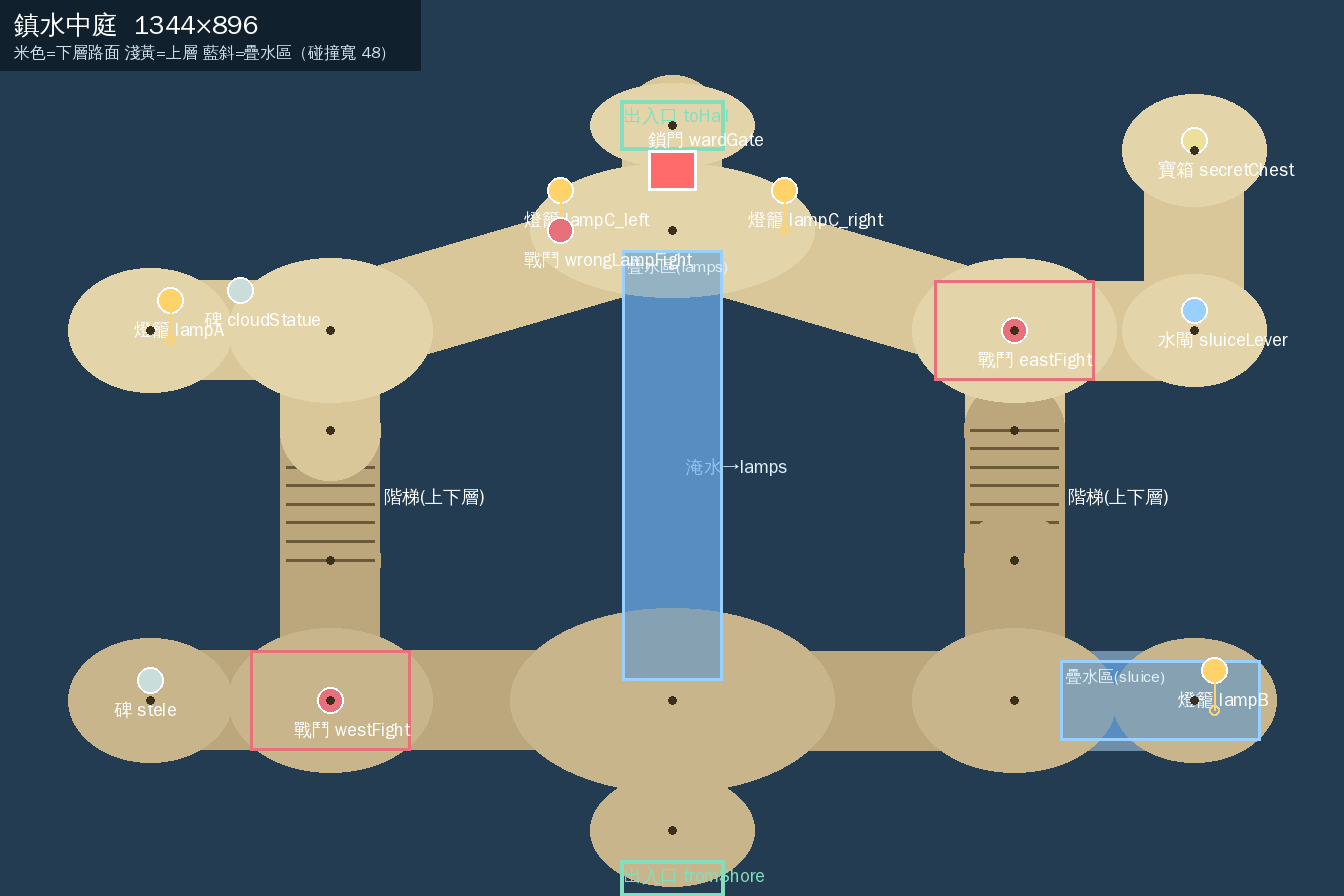
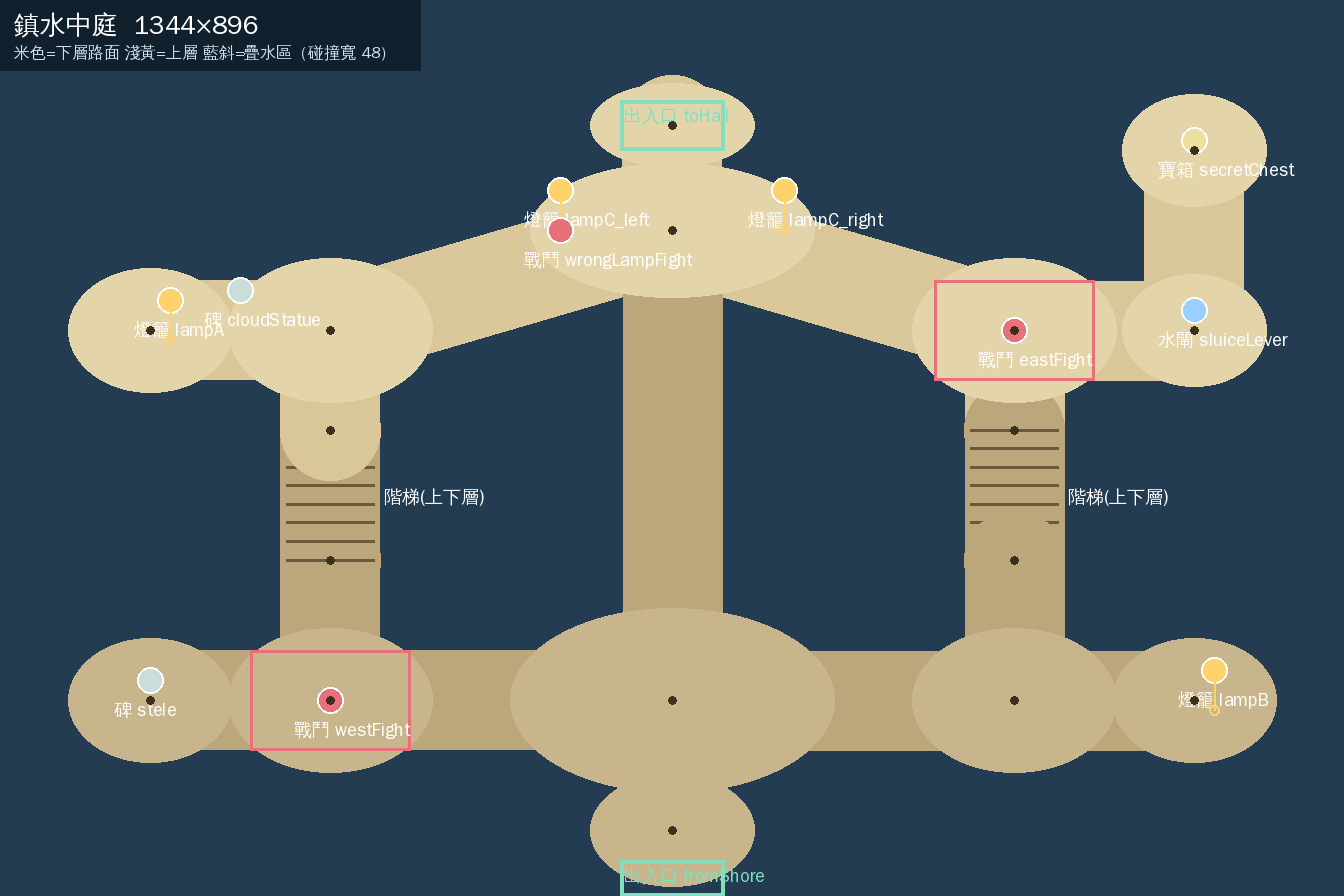
v53 階段二（進行中）：河神廟機關與戰鬥（撐篙、狐火、水閘、點燈選擇、疊水、固定戰鬥、河伯水影）
Claude-Session: https://claude.ai/code/session_012hxEHnLvCbmtScRwYicbh3

Changed region(s): [[0.4375, 0.2812, 0.5938, 0.7812], [0.7812, 0.7188, 0.9375, 0.8438], [0.4688, 0.1562, 0.5312, 0.2188]]

diff --git a/src/temple_layout.js b/src/temple_layout.js
@@ -1,3 +1,3 @@
 'use strict';
 // Generated by tools/build-temple-layout.py from docs/maps/temple-v52/layout-*.json. 不要手改。
-const TEMPLE_LAYOUTS={"shore":{"id":"temple_shore","title":"廟前淺灘","world":{"width":1344,"height":896},"pathWidth":48,"nodes":{"arrival":[90,780],"split":[300,780],"lowA":[560,780],"lowB":[800,780],"lowC":[1000,700],"merge":[1100,480],"up1":[300,540],"pierStart":[300,300],"gapW":[470,300],"gapE":[570,300],"pierMid":[700,300],"pierEnd":[900,300],"pierExit":[1100,300],"gate":[1200,480]},"edges":[{"a":"arrival","b":"split","kind":"path","open":null},{"a":"split","b":"lowA","kind":"path","open":null},{"a":"lowA","b":"lowB","kind":"path","open":null},{"a":"lowB","b":"lowC","kind":"path","open":null},{"a":"lowC","b":"merge","kind":"path","open":null},{"a":"split","b":"up1","kind":"path","open":null},{"a":"up1","b":"pierStart","kind":"path","open":null},{"a":"pierStart","b":"gapW","kind":"path","open":null},{"a":"gapW","b":"gapE","kind":"gap","open":"pole"},{"a":"gapE","b":"pierMid","kind":"path","open":null},{"a":"pierMid","b":"pierEnd","kind":"path","open":null},{"a":"pierEnd","b":"pierExit","kind":"path","open":null},{"a":"pierExit","b":"merge","kind":"path","open":null},{"a":"merge","b":"gate","kind":"path","open":null}],"clearings":[{"id":"arrival","x":90,"y":780,"rx":60,"ry":44},{"id":"split","x":300,"y":780,"rx":70,"ry":50},{"id":"lowB","x":800,"y":780,"rx":110,"ry":70},{"id":"pierStart","x":300,"y":300,"rx":70,"ry":50},{"id":"pierMid","x":700,"y":300,"rx":70,"ry":50},{"id":"pierEnd","x":900,"y":300,"rx":70,"ry":50},{"id":"merge","x":1100,"y":480,"rx":80,"ry":60},{"id":"gate","x":1200,"y":480,"rx":60,"ry":50}],"overlays":[],"zones":{"fromReeds":[24,736,90,90],"toCourt":[1230,430,80,100]},"features":{"poleGap":{"id":"poleGap","kind":"pole","x":520,"y":300,"rect":[470,276,100,48],"note":"棧橋缺口：青舟用竹篙撐出踏板（互動後缺口變成可走，flags.templeShorePole）"},"incenseStele":{"id":"incenseStele","kind":"lore","x":700,"y":280,"note":"斷了香火的舊香碑（環境敘事，可選）"},"shoreChest":{"id":"shoreChest","kind":"chest","x":900,"y":280,"key":"temple:shore","note":"魚乾×2，走棧橋的獎勵"},"shoreGuard":{"id":"shoreGuard","kind":"fight","x":800,"y":780,"trigger":[690,730,220,100],"note":"走淺灘會遇到的固定戰鬥（走棧橋就繞過）"}},"encounters":[{"id":"shoreGuard","enemies":["小水妖","小水妖","蘆葦精"],"flag":"templeShoreFight","checkpoint":[300,780]}],"upper":[]},"court":{"id":"temple_court","title":"鎮水中庭","world":{"width":1344,"height":896},"pathWidth":48,"nodes":{"arrival":[672,830],"lowC":[672,700],"lowW":[330,700],"stele":[150,700],"lowE":[1014,700],"lampBNook":[1194,700],"stairWb":[330,560],"stairWt":[330,430],"upW":[330,330],"lampANook":[150,330],"upN":[672,230],"upE":[1014,330],"stairEt":[1014,430],"stairEb":[1014,560],"sluice":[1194,330],"secretNE":[1194,150],"hallDoor":[672,125]},"edges":[{"a":"arrival","b":"lowC","kind":"path","open":null},{"a":"lowC","b":"lowW","kind":"path","open":null},{"a":"lowW","b":"stele","kind":"path","open":null},{"a":"lowC","b":"lowE","kind":"path","open":null},{"a":"lowE","b":"lampBNook","kind":"flooded","open":"sluice"},{"a":"lowW","b":"stairWb","kind":"path","open":null},{"a":"stairWb","b":"stairWt","kind":"stairs","open":null},{"a":"stairWt","b":"upW","kind":"path","open":null},{"a":"upW","b":"lampANook","kind":"path","open":null},{"a":"upW","b":"upN","kind":"path","open":null},{"a":"upN","b":"upE","kind":"path","open":null},{"a":"upE","b":"stairEt","kind":"path","open":null},{"a":"stairEt","b":"stairEb","kind":"stairs","open":null},{"a":"stairEb","b":"lowE","kind":"path","open":null},{"a":"upE","b":"sluice","kind":"path","open":null},{"a":"sluice","b":"secretNE","kind":"path","open":null},{"a":"upN","b":"lowC","kind":"flooded","open":"lamps"},{"a":"upN","b":"hallDoor","kind":"path","open":null}],"clearings":[{"id":"arrival","x":672,"y":830,"rx":70,"ry":44},{"id":"lowPlaza","x":672,"y":700,"rx":150,"ry":80},{"id":"lowW","x":330,"y":700,"rx":90,"ry":60},{"id":"stele","x":150,"y":700,"rx":70,"ry":50},{"id":"lowE","x":1014,"y":700,"rx":90,"ry":60},{"id":"lampBNook","x":1194,"y":700,"rx":70,"ry":50},{"id":"upW","x":330,"y":330,"rx":90,"ry":60},{"id":"lampANook","x":150,"y":330,"rx":70,"ry":50},{"id":"upN","x":672,"y":230,"rx":130,"ry":55},{"id":"upE","x":1014,"y":330,"rx":90,"ry":60},{"id":"sluice","x":1194,"y":330,"rx":60,"ry":44},{"id":"secretNE","x":1194,"y":150,"rx":60,"ry":44},{"id":"hallDoor","x":672,"y":125,"rx":70,"ry":30}],"overlays":[{"id":"waterB","rect":[1060,660,200,80],"open":"sluice","note":"淹水區：底圖畫成乾石路，遊戲疊水；扳動水閘後水退"},{"id":"waterChannel","rect":[622,250,100,430],"open":"lamps","note":"中央水道：底圖畫成乾石路，遊戲疊水；三燈全亮後水退，露出回到入口的捷徑"}],"zones":{"fromShore":[620,860,104,36],"toHall":[620,100,104,50]},"features":{"stele":{"id":"stele","kind":"lore","x":150,"y":680,"note":"碑文：讀完才能點燈（flags.steleSeen）；寫出「鎮水之燈在日出之側」，答案是東邊那盞（燈 C 右）"},"lampA":{"id":"lampA","kind":"lantern","x":170,"y":300,"stand":[170,340],"note":"燈 A：被銀雲符封住，白苓用狐火燒開才能點亮"},"lampB":{"id":"lampB","kind":"lantern","x":1214,"y":670,"stand":[1214,710],"note":"燈 B：在淹水區，先扳水閘排水才碰得到"},"lampC_left":{"id":"lampC_left","kind":"lantern","x":560,"y":190,"stand":[560,230],"note":"燈 C 左（西）：錯誤的那盞，點了會引來水妖戰"},"lampC_right":{"id":"lampC_right","kind":"lantern","x":784,"y":190,"stand":[784,230],"note":"燈 C 右（東）：正確的那盞"},"sluiceLever":{"id":"sluiceLever","kind":"lever","x":1194,"y":310,"note":"水閘拉桿（flags.templeSluice），青舟用竹篙扳動"},"cloudStatue":{"id":"cloudStatue","kind":"lore","x":240,"y":290,"note":"石像殘骸上的九霄雲紋（呼應第二章伏筆）"},"secretChest":{"id":"secretChest","kind":"chest","x":1194,"y":140,"key":"temple:court","note":"隱藏角落寶箱，清心草×2"},"wardGate":{"id":"wardGate","kind":"gate","rect":[648,150,48,40],"note":"鎮水門；三盞燈全亮才開。門在上層北側往水府後殿的短路上"},"westFight":{"id":"westFight","kind":"fight","x":330,"y":700,"trigger":[250,650,160,100]},"eastFight":{"id":"eastFight","kind":"fight","x":1014,"y":330,"trigger":[934,280,160,100]},"wrongLampFight":{"id":"wrongLampFight","kind":"fight","x":560,"y":230,"note":"點錯燈 C：2 隻小水妖，可重試"}},"encounters":[{"id":"westFight","enemies":["蘆葦精","蘆葦精"],"flag":"templeFightW","checkpoint":[672,830]},{"id":"eastFight","enemies":["小水妖","小水妖","小水妖"],"flag":"templeFightE","checkpoint":[672,830]},{"id":"wrongLampFight","enemies":["小水妖","小水妖"],"flag":null,"checkpoint":[672,830]}],"upper":["stairWt","upW","lampANook","upN","upE","stairEt","sluice","secretNE","hallDoor"]},"hall":{"id":"temple_hall","title":"水府後殿","world":{"width":1344,"height":896},"pathWidth":48,"nodes":{"arrival":[672,830],"hall1":[672,700],"westS":[340,700],"westN":[340,300],"eastS":[1004,700],"eastN":[1004,300],"northMid":[672,300],"shrine":[672,480],"westAlcove":[160,500],"eastAlcove":[1184,500],"boss":[672,150]},"edges":[{"a":"arrival","b":"hall1","kind":"path","open":null},{"a":"hall1","b":"westS","kind":"path","open":null},{"a":"westS","b":"westN","kind":"path","open":null},{"a":"westN","b":"northMid","kind":"path","open":null},{"a":"northMid","b":"eastN","kind":"path","open":null},{"a":"eastN","b":"eastS","kind":"path","open":null},{"a":"eastS","b":"hall1","kind":"path","open":null},{"a":"hall1","b":"shrine","kind":"path","open":null},{"a":"westN","b":"westAlcove","kind":"path","open":null},{"a":"eastN","b":"eastAlcove","kind":"path","open":null},{"a":"northMid","b":"boss","kind":"barrier","open":"seal"}],"clearings":[{"id":"arrival","x":672,"y":830,"rx":70,"ry":44},{"id":"hall1","x":672,"y":700,"rx":100,"ry":60},{"id":"shrine","x":672,"y":480,"rx":120,"ry":70},{"id":"northMid","x":672,"y":300,"rx":100,"ry":55},{"id":"westAlcove","x":160,"y":500,"rx":80,"ry":50},{"id":"eastAlcove","x":1184,"y":500,"rx":80,"ry":50},{"id":"boss","x":672,"y":150,"rx":150,"ry":80}],"overlays":[],"zones":{"fromCourt":[620,860,104,36]},"features":{"plaque":{"id":"plaque","kind":"lore","x":160,"y":480,"note":"還願牌（原有內容，flags.plaque）"},"hallChest":{"id":"hallChest","kind":"chest","x":1184,"y":480,"key":"temple:hall","note":"清心草×2，繞環形走廊才拿得到"},"cloudMark":{"id":"cloudMark","kind":"lore","x":600,"y":440,"note":"神龕旁銀雲紋，和控妖符同一人手筆（第二章伏筆）"},"shrineSeal":{"id":"shrineSeal","kind":"seal","x":672,"y":460,"zone":[622,430,100,80],"note":"神龕：觸發墨刑事件＋河伯水影中頭目戰，勝利後削弱封印（flags.templeSeal）"},"sealBarrier":{"id":"sealBarrier","kind":"gate","rect":[648,262,48,28],"note":"封印屏障：封印削弱前擋住通往河伯的路"},"hebo":{"id":"hebo","kind":"boss","x":672,"y":120,"note":"河伯，封印削弱後交談開戰"}},"encounters":[{"id":"shrineShadow","enemies":["河伯水影"],"flag":"templeHallShadow","checkpoint":[672,830]}],"upper":[]}};
+const TEMPLE_LAYOUTS={"shore":{"id":"temple_shore","title":"廟前淺灘","world":{"width":1344,"height":896},"pathWidth":48,"nodes":{"arrival":[90,780],"split":[300,780],"lowA":[560,780],"lowB":[800,780],"lowC":[1000,700],"merge":[1100,480],"up1":[300,540],"pierStart":[300,300],"gapW":[470,300],"gapE":[570,300],"pierMid":[700,300],"pierEnd":[900,300],"pierExit":[1100,300],"gate":[1200,480]},"edges":[{"a":"arrival","b":"split","kind":"path","open":null},{"a":"split","b":"lowA","kind":"path","open":null},{"a":"lowA","b":"lowB","kind":"path","open":null},{"a":"lowB","b":"lowC","kind":"path","open":null},{"a":"lowC","b":"merge","kind":"path","open":null},{"a":"split","b":"up1","kind":"path","open":null},{"a":"up1","b":"pierStart","kind":"path","open":null},{"a":"pierStart","b":"gapW","kind":"path","open":null},{"a":"gapW","b":"gapE","kind":"gap","open":"pole"},{"a":"gapE","b":"pierMid","kind":"path","open":null},{"a":"pierMid","b":"pierEnd","kind":"path","open":null},{"a":"pierEnd","b":"pierExit","kind":"path","open":null},{"a":"pierExit","b":"merge","kind":"path","open":null},{"a":"merge","b":"gate","kind":"path","open":null}],"clearings":[{"id":"arrival","x":90,"y":780,"rx":60,"ry":44},{"id":"split","x":300,"y":780,"rx":70,"ry":50},{"id":"lowB","x":800,"y":780,"rx":110,"ry":70},{"id":"pierStart","x":300,"y":300,"rx":70,"ry":50},{"id":"pierMid","x":700,"y":300,"rx":70,"ry":50},{"id":"pierEnd","x":900,"y":300,"rx":70,"ry":50},{"id":"merge","x":1100,"y":480,"rx":80,"ry":60},{"id":"gate","x":1200,"y":480,"rx":60,"ry":50}],"overlays":[],"zones":{"fromReeds":[24,736,90,90],"toCourt":[1230,430,80,100]},"features":{"poleGap":{"id":"poleGap","kind":"pole","x":520,"y":300,"rect":[470,276,100,48],"note":"棧橋缺口：青舟用竹篙撐出踏板（互動後缺口變成可走，flags.templeShorePole）"},"incenseStele":{"id":"incenseStele","kind":"lore","x":700,"y":280,"note":"斷了香火的舊香碑（環境敘事，可選）"},"shoreChest":{"id":"shoreChest","kind":"chest","x":900,"y":280,"key":"temple:shore","note":"魚乾×2，走棧橋的獎勵"},"shoreGuard":{"id":"shoreGuard","kind":"fight","x":800,"y":780,"trigger":[690,730,220,100],"note":"走淺灘會遇到的固定戰鬥（走棧橋就繞過）"}},"encounters":[{"id":"shoreGuard","enemies":["小水妖","小水妖","蘆葦精"],"flag":"templeShoreFight","checkpoint":[300,780],"bg":"bg_river"}],"upper":[]},"court":{"id":"temple_court","title":"鎮水中庭","world":{"width":1344,"height":896},"pathWidth":48,"nodes":{"arrival":[672,830],"lowC":[672,700],"lowW":[330,700],"stele":[150,700],"lowE":[1014,700],"lampBNook":[1194,700],"stairWb":[330,560],"stairWt":[330,430],"upW":[330,330],"lampANook":[150,330],"upN":[672,230],"upE":[1014,330],"stairEt":[1014,430],"stairEb":[1014,560],"sluice":[1194,330],"secretNE":[1194,150],"hallDoor":[672,125]},"edges":[{"a":"arrival","b":"lowC","kind":"path","open":null},{"a":"lowC","b":"lowW","kind":"path","open":null},{"a":"lowW","b":"stele","kind":"path","open":null},{"a":"lowC","b":"lowE","kind":"path","open":null},{"a":"lowE","b":"lampBNook","kind":"flooded","open":"sluice"},{"a":"lowW","b":"stairWb","kind":"path","open":null},{"a":"stairWb","b":"stairWt","kind":"stairs","open":null},{"a":"stairWt","b":"upW","kind":"path","open":null},{"a":"upW","b":"lampANook","kind":"path","open":null},{"a":"upW","b":"upN","kind":"path","open":null},{"a":"upN","b":"upE","kind":"path","open":null},{"a":"upE","b":"stairEt","kind":"path","open":null},{"a":"stairEt","b":"stairEb","kind":"stairs","open":null},{"a":"stairEb","b":"lowE","kind":"path","open":null},{"a":"upE","b":"sluice","kind":"path","open":null},{"a":"sluice","b":"secretNE","kind":"path","open":null},{"a":"upN","b":"lowC","kind":"flooded","open":"lamps"},{"a":"upN","b":"hallDoor","kind":"path","open":null}],"clearings":[{"id":"arrival","x":672,"y":830,"rx":70,"ry":44},{"id":"lowPlaza","x":672,"y":700,"rx":150,"ry":80},{"id":"lowW","x":330,"y":700,"rx":90,"ry":60},{"id":"stele","x":150,"y":700,"rx":70,"ry":50},{"id":"lowE","x":1014,"y":700,"rx":90,"ry":60},{"id":"lampBNook","x":1194,"y":700,"rx":70,"ry":50},{"id":"upW","x":330,"y":330,"rx":90,"ry":60},{"id":"lampANook","x":150,"y":330,"rx":70,"ry":50},{"id":"upN","x":672,"y":230,"rx":130,"ry":55},{"id":"upE","x":1014,"y":330,"rx":90,"ry":60},{"id":"sluice","x":1194,"y":330,"rx":60,"ry":44},{"id":"secretNE","x":1194,"y":150,"rx":60,"ry":44},{"id":"hallDoor","x":672,"y":125,"rx":70,"ry":30}],"overlays":[{"id":"waterB","rect":[1060,660,200,80],"open":"sluice","note":"淹水區：底圖畫成乾石路，遊戲疊水；扳動水閘後水退"},{"id":"waterChannel","rect":[622,250,100,430],"open":"lamps","note":"中央水道：底圖畫成乾石路，遊戲疊水；三燈全亮後水退，露出回到入口的捷徑"}],"zones":{"fromShore":[620,860,104,36],"toHall":[620,100,104,50]},"features":{"stele":{"id":"stele","kind":"lore","x":150,"y":680,"note":"碑文：讀完才能點燈（flags.steleSeen）；寫出「鎮水之燈在日出之側」，答案是東邊那盞（燈 C 右）"},"lampA":{"id":"lampA","kind":"lantern","x":170,"y":300,"stand":[170,340],"note":"燈 A：被銀雲符封住，白苓用狐火燒開才能點亮"},"lampB":{"id":"lampB","kind":"lantern","x":1214,"y":670,"stand":[1214,710],"note":"燈 B：在淹水區，先扳水閘排水才碰得到"},"lampC_left":{"id":"lampC_left","kind":"lantern","x":560,"y":190,"stand":[560,230],"note":"燈 C 左（西）：錯誤的那盞，點了會引來水妖戰"},"lampC_right":{"id":"lampC_right","kind":"lantern","x":784,"y":190,"stand":[784,230],"note":"燈 C 右（東）：正確的那盞"},"sluiceLever":{"id":"sluiceLever","kind":"lever","x":1194,"y":310,"note":"水閘拉桿（flags.templeSluice），青舟用竹篙扳動"},"cloudStatue":{"id":"cloudStatue","kind":"lore","x":240,"y":290,"note":"石像殘骸上的九霄雲紋（呼應第二章伏筆）"},"secretChest":{"id":"secretChest","kind":"chest","x":1194,"y":140,"key":"temple:court","note":"隱藏角落寶箱，清心草×2"},"wardGate":{"id":"wardGate","kind":"gate","rect":[648,150,48,40],"note":"鎮水門；三盞燈全亮才開。門在上層北側往水府後殿的短路上"},"westFight":{"id":"westFight","kind":"fight","x":330,"y":700,"trigger":[250,650,160,100]},"eastFight":{"id":"eastFight","kind":"fight","x":1014,"y":330,"trigger":[934,280,160,100]},"wrongLampFight":{"id":"wrongLampFight","kind":"fight","x":560,"y":230,"note":"點錯燈 C：2 隻小水妖，可重試"}},"encounters":[{"id":"westFight","enemies":["蘆葦精","蘆葦精"],"flag":"templeFightW","checkpoint":[672,830],"bg":"bg_temple"},{"id":"eastFight","enemies":["小水妖","小水妖","小水妖"],"flag":"templeFightE","checkpoint":[672,830],"bg":"bg_temple"},{"id":"wrongLampFight","enemies":["小水妖","小水妖"],"flag":null,"checkpoint":[672,830],"bg":"bg_temple"}],"upper":["stairWt","upW","lampANook","upN","upE","stairEt","sluice","secretNE","hallDoor"]},"hall":{"id":"temple_hall","title":"水府後殿","world":{"width":1344,"height":896},"pathWidth":48,"nodes":{"arrival":[672,830],"hall1":[672,700],"westS":[340,700],"westN":[340,300],"eastS":[1004,700],"eastN":[1004,300],"northMid":[672,300],"shrine":[672,480],"westAlcove":[160,500],"eastAlcove":[1184,500],"boss":[672,150]},"edges":[{"a":"arrival","b":"hall1","kind":"path","open":null},{"a":"hall1","b":"westS","kind":"path","open":null},{"a":"westS","b":"westN","kind":"path","open":null},{"a":"westN","b":"northMid","kind":"path","open":null},{"a":"northMid","b":"eastN","kind":"path","open":null},{"a":"eastN","b":"eastS","kind":"path","open":null},{"a":"eastS","b":"hall1","kind":"path","open":null},{"a":"hall1","b":"shrine","kind":"path","open":null},{"a":"westN","b":"westAlcove","kind":"path","open":null},{"a":"eastN","b":"eastAlcove","kind":"path","open":null},{"a":"northMid","b":"boss","kind":"barrier","open":"seal"}],"clearings":[{"id":"arrival","x":672,"y":830,"rx":70,"ry":44},{"id":"hall1","x":672,"y":700,"rx":100,"ry":60},{"id":"shrine","x":672,"y":480,"rx":120,"ry":70},{"id":"northMid","x":672,"y":300,"rx":100,"ry":55},{"id":"westAlcove","x":160,"y":500,"rx":80,"ry":50},{"id":"eastAlcove","x":1184,"y":500,"rx":80,"ry":50},{"id":"boss","x":672,"y":150,"rx":150,"ry":80}],"overlays":[],"zones":{"fromCourt":[620,860,104,36]},"features":{"plaque":{"id":"plaque","kind":"lore","x":160,"y":480,"note":"還願牌（原有內容，flags.plaque）"},"hallChest":{"id":"hallChest","kind":"chest","x":1184,"y":480,"key":"temple:hall","note":"清心草×2，繞環形走廊才拿得到"},"cloudMark":{"id":"cloudMark","kind":"lore","x":600,"y":440,"note":"神龕旁銀雲紋，和控妖符同一人手筆（第二章伏筆）"},"shrineSeal":{"id":"shrineSeal","kind":"seal","x":672,"y":460,"zone":[622,430,100,80],"note":"神龕：觸發墨刑事件＋河伯水影中頭目戰，勝利後削弱封印（flags.templeSeal）"},"sealBarrier":{"id":"sealBarrier","kind":"gate","rect":[648,262,48,28],"note":"封印屏障：封印削弱前擋住通往河伯的路"},"hebo":{"id":"hebo","kind":"boss","x":672,"y":120,"note":"河伯，封印削弱後交談開戰"}},"encounters":[{"id":"shrineShadow","enemies":["河伯水影"],"flag":"templeHallShadow","checkpoint":[672,830],"bg":"bg_temple"}],"upper":[]}};

diff --git a/src/temple_map.js b/src/temple_map.js
@@ -7,10 +7,10 @@ const TEMPLE_IDS={temple_shore:'shore',temple_court:'court',temple_hall:'hall'};
 const TEMPLE_ID_OF=k=>TEMPLE_LAYOUTS[k].id;
 const TEMPLE_FOOT=[[-8,0],[8,0],[-8,-6],[8,-6],[0,0],[0,-6]];
 const TEMPLE_LAMP_COUNT=3;
-// 邊／疊水區的開啟條件。階段二：pole、sluice 會改成真正的機關旗標（templeShorePole、templeSluice）。
+// 邊／疊水區的開啟條件：pole＝棧橋踏板（templeShorePole）、sluice＝水閘（templeSluice）、lamps＝三燈全亮、seal＝封印削弱。
 const TEMPLE_OPEN={
- pole:()=>true,
- sluice:()=>true,
+ pole:()=>!!G.flags.templeShorePole,
+ sluice:()=>!!G.flags.templeSluice,
  lamps:()=>(G.flags.templeLamps||0)===((1<<TEMPLE_LAMP_COUNT)-1),
  seal:()=>!!G.flags.templeSeal
 };
@@ -51,13 +51,42 @@ function templeJump(key){
  Object.assign(f,{ferry:1,chief:1,quest:1,flood:1,ferryFight:1,fish:1,tal:1,reedSeen:1,reedPole:1,reedSolved:1,reedBoss:1,camp:1});
  G.inv.魚乾=3;G.inv.清心草=2;
  if(key!=='shore'){Object.assign(f,{templeShorePole:1,templeShoreFight:1})}
+ if(key==='court'){Object.assign(f,{})}
  if(key==='hall'){Object.assign(f,{steleSeen:1,templeLamps:(1<<TEMPLE_LAMP_COUNT)-1,templeFightW:1,templeFightE:1,templeSluice:1})}
  templeTravel(key,'arrival','up');healParty();
  return true}
 function templeHashJump(){const m=/^#temple-(shore|court|hall)$/.exec(location.hash||'');if(m)templeJump(m[1])}
+// 河伯水影沿用河伯的圖，預先疊成偏藍暗的剪影並快取（不用 ctx.filter，iOS 也看得到）。
+function templeEnsureShadowSprites(){
+ if(I.hebos)return;
+ if(!I.hebo?.naturalWidth)return;
+ const tint=src=>{const c=document.createElement('canvas');c.width=src.naturalWidth||src.width;c.height=src.naturalHeight||src.height;const x=c.getContext('2d');x.drawImage(src,0,0);x.globalCompositeOperation='source-atop';x.fillStyle='rgba(24,44,110,.58)';x.fillRect(0,0,c.width,c.height);const im=new Image();im.src=c.toDataURL('image/png');return im};
+ I.hebos=tint(I.hebo);for(const p of['idle0','idle1','cast','attack','hit','down'])if(I['hebo_'+p]?.naturalWidth)I['hebos_'+p]=tint(I['hebo_'+p]);
+ if(typeof EART!=='undefined'&&EART.hebo)EART.hebos=EART.hebo}
+// 疊水、踏板、鎖門：底圖畫成乾的，由遊戲動態疊上去；條件滿足後淡出／淡入。
+function drawTempleOverlays(now){
+ const L=TEMPLE_LAYOUTS[M.templeMap];if(!L)return;const A=M.templeAnim||{},fade=(id,since)=>since==null?0:Math.max(0,1-(now-since)/1400);
+ const t=now/1000;
+ for(const o of L.overlays||[]){
+  const open=templeIsOpen(o.open),a=open?fade(o.id,A[o.open]):1;if(a<=0)continue;
+  const[x,y,w,h]=o.rect;X.save();X.globalAlpha=.5*a;X.fillStyle='#3a82c8';X.fillRect(x,y,w,h);
+  X.globalAlpha=.35*a;X.strokeStyle='#cfe8ff';X.lineWidth=2;
+  for(let i=0;i<4;i++){const yy=y+(i+.5)*h/4;X.beginPath();for(let xx=0;xx<=w;xx+=8){const py=yy+Math.sin(t*2.2+xx/22+i)*3;xx?X.lineTo(x+xx,py):X.moveTo(x,py)}X.stroke()}
+  X.restore()}
+ const gap=L.features.poleGap;
+ if(gap){const[x,y,w,h]=gap.rect,open=!!G.flags.templeShorePole,a=open?1-fade('pole',A.pole):0;
+  X.save();
+  if(!open){X.fillStyle='rgba(20,50,90,.7)';X.fillRect(x,y,w,h)}
+  else{X.globalAlpha=Math.max(a,A.pole==null?1:0);X.fillStyle='#9a6f46';X.fillRect(x,y+8,w,h-16);X.strokeStyle='#5f4328';X.lineWidth=2;for(let i=1;i<6;i++){X.beginPath();X.moveTo(x+i*w/6,y+8);X.lineTo(x+i*w/6,y+h-8);X.stroke()}}
+  X.restore()}
+ const g=L.features.wardGate;
+ if(g&&!templeIsOpen('lamps')){const[x,y,w,h]=g.rect;X.save();X.globalAlpha=.55+.15*Math.sin(t*3);X.fillStyle='#7a2f4a';X.fillRect(x,y,w,h);X.strokeStyle='#e7a4c0';X.lineWidth=3;X.strokeRect(x,y,w,h);X.restore()}
+ const sb=L.features.sealBarrier;
+ if(sb&&!templeIsOpen('seal')){const[x,y,w,h]=sb.rect;X.save();X.globalAlpha=.55+.15*Math.sin(t*3);X.fillStyle='#2b1f3a';X.fillRect(x,y,w,h);X.strokeStyle='#b58bd6';X.lineWidth=3;X.strokeRect(x,y,w,h);X.restore()}
+}
 function buildTempleMap(key){
  const L=TEMPLE_LAYOUTS[key],W=L.world.width,H=L.world.height,F=L.features,[g,c]=cvs(W,H);
- M={id:L.id,W,H,T:T2,rows:[],obj:[],sol:[],zones:[],inter:[],npcs:[],lights:[],night:1,nightGrade:.18,mapPlate:1,templeMap:key};
+ M={id:L.id,W,H,T:T2,rows:[],obj:[],sol:[],zones:[],inter:[],npcs:[],lights:[],night:1,nightGrade:.18,mapPlate:1,templeMap:key,templeAnim:{}};
  const plate=I['temple_guide_'+key];
  if(plate?.naturalWidth)c.drawImage(plate,0,0,W,H);else{c.fillStyle='#243c51';c.fillRect(0,0,W,H);c.strokeStyle='#bca77c';c.lineCap='round';c.lineWidth=L.pathWidth*2;for(const e of L.edges){c.beginPath();c.moveTo(...L.nodes[e.a]);c.lineTo(...L.nodes[e.b]);c.stroke()}}
  M.ground=g;
@@ -65,19 +94,23 @@ function buildTempleMap(key){
  const zone=(r,enter)=>{const[x,y,w,h]=r;M.zones.push({x0:x,y0:y,x1:x+w,y1:y+h,enter})};
  const chest=f=>{addObj({k:'chest',x:f.x,y:f.y,chest:f.key});M.sol.push([f.x-16,f.y-12,32,12]);M.inter.push({x:f.x,y:f.y+8,r:38,act:()=>openChest(f.key)})};
  const lore=(f,act,r)=>M.inter.push({x:f.x,y:f.y+(f.stand?0:20),r:r||38,act});
- const lamp=(f,bit)=>{const x=f.x,y=f.y,lit=bit!=null&&((G.flags.templeLamps||0)&(1<<bit));
+ const lamp=(f,bit,act)=>{const x=f.x,y=f.y,lit=bit!=null&&((G.flags.templeLamps||0)&(1<<bit));
   const l=[x,y-24,104,lit?'rgba(191,239,240,.5)':'rgba(110,150,160,.13)'];if(bit!=null)l.lamp=bit;M.lights.push(l);
-  if(!lit){const[sx,sy]=f.stand||[x,y+30];M.inter.push({x:sx,y:sy,r:40,lampBit:bit,act:bit!=null?()=>lightTempleLantern(bit):()=>say(S.templeLampDecoy)})}};
+  if(!lit){const[sx,sy]=f.stand||[x,y+30];M.inter.push({x:sx,y:sy,r:40,lampBit:bit,act:act||(bit!=null?()=>lightTempleLantern(bit):()=>say(S.templeLampDecoy))})}};
  if(key==='shore'){
   zone(L.zones.toCourt,()=>templeTravel('court','arrival','up'));
   lore(F.incenseStele,()=>say(S.templeIncense));
   chest(F.shoreChest);
+  zone(F.shoreGuard.trigger,()=>templeFight('shoreGuard'));
+  if(!G.flags.templeShorePole)M.inter.push({x:L.nodes.gapW[0],y:L.nodes.gapW[1],r:64,templePole:1,act:templePole});
  }
  if(key==='court'){
   zone(L.zones.fromShore,()=>templeTravel('shore','gate','left'));
   zone(L.zones.toHall,()=>{if(!templeIsOpen('lamps')){G.y+=40;return say(S.templeWardGateLocked)}templeTravel('hall','arrival','up')});
-  lore(F.stele,stele);
-  lamp(F.lampA,0);lamp(F.lampB,1);lamp(F.lampC_right,2);lamp(F.lampC_left,null);
+  lore(F.stele,()=>{G.flags.steleSeen=1;say(S.stele.concat(S.templeSteleClue))});
+  lamp(F.lampA,0,templeLampA);lamp(F.lampB,1);lamp(F.lampC_right,2);lamp(F.lampC_left,null,templeLampWrong);
+  M.inter.push({x:F.sluiceLever.x,y:F.sluiceLever.y+20,r:44,act:templeSluice});
+  zone(F.westFight.trigger,()=>templeFight('westFight'));zone(F.eastFight.trigger,()=>templeFight('eastFight'));
   lore(F.cloudStatue,()=>say(S.templeCloudStatue));
   chest(F.secretChest);
  }
@@ -86,7 +119,8 @@ function buildTempleMap(key){
   lore(F.plaque,plaque);
   chest(F.hallChest);
   lore(F.cloudMark,()=>say(S.templeCloudMark));
-  M.inter.push({x:F.shrineSeal.x,y:F.shrineSeal.y+20,r:46,act:templeSeal});
+  M.inter.push({x:F.shrineSeal.x,y:F.shrineSeal.y+20,r:46,act:templeShrine});
+  templeEnsureShadowSprites();
   if(!G.flags.boss){const h=npc('hebo',F.hebo.x,F.hebo.y,'河伯',bossTalk,()=>1);h.boss=1;const it=M.inter[M.inter.length-1];it.r=60;it.y=F.hebo.y+30}
  }
  if(DEBUG_COL){M.walkRed=templeRedLayer();M.walkRedState=templeDebugState()}

diff --git a/index.html b/index.html
@@ -1,35 +1,35 @@
-<!doctype html><html lang="zh-Hant"><head><link rel="icon" href="data:,"><meta charset="utf-8"><meta name="viewport" content="width=device-width,initial-scale=1,user-scalable=no,viewport-fit=cover"><meta name="apple-mobile-web-app-capable" content="yes"><meta http-equiv="Cache-Control" content="no-cache, no-store, must-revalidate"><meta http-equiv="Pragma" content="no-cache"><meta http-equiv="Expires" content="0"><title>雲渡仙緣 第一章 v52</title>
+<!doctype html><html lang="zh-Hant"><head><link rel="icon" href="data:,"><meta charset="utf-8"><meta name="viewport" content="width=device-width,initial-scale=1,user-scalable=no,viewport-fit=cover"><meta name="apple-mobile-web-app-capable" content="yes"><meta http-equiv="Cache-Control" content="no-cache, no-store, must-revalidate"><meta http-equiv="Pragma" content="no-cache"><meta http-equiv="Expires" content="0"><title>雲渡仙緣 第一章 v53</title>
 <style>html,body{margin:0;height:100%;overflow:hidden;overscroll-behavior:none;background:#000;touch-action:none;-webkit-touch-callout:none;-webkit-user-select:none;user-select:none;-webkit-tap-highlight-color:transparent}
 #c{position:fixed;left:0;top:0;width:100vw;height:100vh;display:block}
 #tip{position:fixed;left:50%;transform:translateX(-50%);bottom:calc(6px + env(safe-area-inset-bottom));color:#ccc;font:13px sans-serif;background:rgba(0,0,0,.5);padding:3px 10px;border-radius:8px}.touch #tip{display:none}</style></head><body>
 <canvas id="c"></canvas><div id="tip">方向鍵/WASD 移動・空白鍵/Enter 確定(A)・Esc/X 取消/狀態(B)・M 選單</div>
 
-<script src="src/joystick.js?v=52"></script>
-<script src="src/assets.js?v=52"></script>
-<script src="src/engine.js?v=52"></script>
-<script src="src/data.js?v=52"></script>
-<script src="src/reeds_layout.js?v=52"></script>
-<script src="src/reeds_map.js?v=52"></script>
-<script src="src/temple_layout.js?v=52"></script>
-<script src="src/temple_map.js?v=52"></script>
-<script src="src/maps.js?v=52"></script>
-<script src="src/script.js?v=52"></script>
-<script src="src/story.js?v=52"></script>
-<script src="src/village_explore.js?v=52"></script>
-<script src="src/battle.js?v=52"></script>
-<script src="src/input.js?v=52"></script>
-<script src="src/update.js?v=52"></script>
-<script src="src/ui.js?v=52"></script>
-<script src="src/cinematics.js?v=52"></script>
-<script src="src/render.js?v=52"></script>
-<script src="src/audio_assets.js?v=52"></script>
-<script src="src/audio.js?v=52"></script>
-<script src="src/audio_playback.js?v=52"></script>
-<script src="src/fx.js?v=52"></script>
-<script src="src/battle_motion.js?v=52"></script>
-<script src="src/battle_ui.js?v=52"></script>
-<script src="src/screens.js?v=52"></script>
-<script src="src/save.js?v=52"></script>
-<script src="src/exploration_ui.js?v=52"></script>
-<script src="src/main.js?v=52"></script>
+<script src="src/joystick.js?v=53"></script>
+<script src="src/assets.js?v=53"></script>
+<script src="src/engine.js?v=53"></script>
+<script src="src/data.js?v=53"></script>
+<script src="src/reeds_layout.js?v=53"></script>
+<script src="src/reeds_map.js?v=53"></script>
+<script src="src/temple_layout.js?v=53"></script>
+<script src="src/temple_map.js?v=53"></script>
+<script src="src/maps.js?v=53"></script>
+<script src="src/script.js?v=53"></script>
+<script src="src/story.js?v=53"></script>
+<script src="src/village_explore.js?v=53"></script>
+<script src="src/battle.js?v=53"></script>
+<script src="src/input.js?v=53"></script>
+<script src="src/update.js?v=53"></script>
+<script src="src/ui.js?v=53"></script>
+<script src="src/cinematics.js?v=53"></script>
+<script src="src/render.js?v=53"></script>
+<script src="src/audio_assets.js?v=53"></script>
+<script src="src/audio.js?v=53"></script>
+<script src="src/audio_playback.js?v=53"></script>
+<script src="src/fx.js?v=53"></script>
+<script src="src/battle_motion.js?v=53"></script>
+<script src="src/battle_ui.js?v=53"></script>
+<script src="src/screens.js?v=53"></script>
+<script src="src/save.js?v=53"></script>
+<script src="src/exploration_ui.js?v=53"></script>
+<script src="src/main.js?v=53"></script>
 </body></html>

diff --git a/src/script.js b/src/script.js
@@ -143,6 +143,26 @@ sealNoClue:[['白苓','先看看廟裡留下的字。這裡的符咒有新舊兩
 sealNoLamps:[['白苓','神龕周圍的鎮水紋還沒醒。先把庭院裡三座石燈都點亮，封印才會顯出脈絡。']],
 lanternNoStele:[['白苓','先讀讀西側石碑吧。也許碑文會說明這些石燈的用處。']],
 lanternRepeat:[[['','這盞石燈已經亮起青白的光。']],[['','燈芯裡的青白水光仍穩穩亮著。']],[['','石燈映出一圈清亮水紋，光芒沒有熄滅。']]], // 每項是「整串對白」；v52 起已亮的燈不再有互動，保留給舊流程
+templePole:[['陳青舟','棧橋斷了一截。等我撐一下。'],['','青舟把竹篙斜插進淺灘，借力一撐，竹篙橫架在斷口上，一塊塊浮板被他撥過來，拼成了踏板。'],['白苓','（試著踩了踩）穩的。你這竹篙，比我想的有用。']],
+templePoleDone:[['','斷口上的踏板還穩穩架著。']],
+templeSteleClue:[['','碑文末尾還刻著一行小字：「鎮水三燈：西燈承雲，東燈守水，日出之側的燈，才是正燈。」'],['白苓','三盞燈……「日出之側」，是說東邊嗎？']],
+templeLampA:[['','這盞石燈被一張銀雲紋的符紙封住了，燈芯貼在符下，怎麼也點不著。'],['白苓','是九霄宗的封符。我來。'],['','白苓指尖燃起一簇藍色狐火，輕輕按在符紙上。符紙捲起來，化成了灰。']],
+templeLampWrong:[['','燈芯剛燃起，燈座下的水紋忽然炸開，兩道黑影從水裡竄了出來！'],['白苓','選錯了！']],
+templeLampWrongWin:[['','黑影退去，這盞燈的火熄了。'],['陳青舟','碑上說「日出之側」……是另一邊。']],
+templeSluice:[['','水閘的石輪被苔蘚卡死了，青舟用竹篙頂住輪輻，一寸一寸往回撬。'],['','閘門緩緩升起，東側下層的積水嘩啦啦退進溝裡，露出一條乾石路。'],['陳青舟','路出來了。那邊該有一盞燈。']],
+templeSluiceDone:[['','水閘已經升起，水溝裡只剩細細的水聲。']],
+templeFight_shoreGuard:[['','淺灘上的水忽然動了，幾道影子貼著水面圍了過來。'],['白苓','別往前，它們在攔路！']],
+templeWin_shoreGuard:[['','影子散成了水花。淺灘重新安靜下來。']],
+templeEsc_shoreGuard:[['','青舟拉著白苓退到岸邊，影子沒有追上來。']],
+templeFight_westFight:[['','西側下層的蘆葦忽然立了起來，兩個枯綠的身影擋住了去石碑的路。']],
+templeWin_westFight:[['','枯影倒下，化成一堆乾蘆葦。路通了。']],
+templeEsc_westFight:[['','青舟拉著白苓往後退，兩個枯影沒有跟上來。']],
+templeFight_eastFight:[['','東側上層的水池裡冒出三團水影，晃晃悠悠，朝這邊飄來。']],
+templeWin_eastFight:[['','水影散開，池面又平靜下來。']],
+templeEsc_eastFight:[['','青舟拉著白苓退開，水影沒有追上來。']],
+templeShrineInk:[['','神龕前，鎮水紋被黑氣纏成一團，像一張網。'],['白苓','（忽然按住手腕，臉色一白）……墨刑在發燙。'],['陳青舟','白苓？'],['白苓','沒事……只是這道符，在牽我手腕上的墨。']
+ ,['','神龕前的黑氣猛地一卷，水面凝出一條龍形的暗影，眼睛亮著和控妖符同樣的黑光。'],['陳青舟','那是河伯的影子——先把它打散！']],
+templeShadowWin:[['','水影發出一聲低吼，散成滿地的水。纏著神龕的黑氣鬆了一截。']],
 templeIncense:[['','斷了的香碑上積著青苔，香灰早被河水沖淡了。'],['陳青舟','河神廟的香火，真的斷了很久。']],
 templeLampDecoy:[['','這盞石燈的燈芯是濕的，怎麼也點不著。'],['白苓','不是這一盞。再想想碑上寫的。']],
 templeWardGateLocked:[['','鎮水門紋絲不動，門上的水紋還暗著。'],['白苓','三盞燈都亮了，門才會開。']],

diff --git a/src/story.js b/src/story.js
@@ -28,7 +28,21 @@ function exitReeds(){const f=G.flags,back=()=>{if(M.maze)G.x=Math.min(G.x,REEDS_
 function plaque(){if(G.flags.plaque)return say(S.plaqueR);G.flags.plaque=1;say(S.plaque)}
 function stele(){G.flags.steleSeen=1;say(S.stele)}
 function templeSeal(){const f=G.flags;if(!f.steleSeen)return say(S.sealNoClue);if(f.templeSeal)return say(S.sealRepeat);if((f.templeLamps||0)!==templeLanternMask())return say(S.sealNoLamps);f.templeSeal=1;say(S.seal)}
-function lightTempleLantern(i){const f=G.flags;if(!f.steleSeen)return say(S.lanternNoStele);const bit=1<<i;if((f.templeLamps||0)&bit)return;f.templeLamps=(f.templeLamps||0)|bit;const glow=M.lights.find(l=>l.lamp===i);if(glow)glow[3]='rgba(191,239,240,.5)';M.inter=M.inter.filter(it=>it.lampBit!==i);const lines=[['','燈芯泛起青白微光，水紋沿著石燈亮了一圈。']];if(f.templeLamps===templeLanternMask())lines.push(['提示','三盞燈都亮了。北邊的鎮水門開了，從中庭北側進入水府後殿。']);say(lines)}
+// v52 階段二：新三張圖的機關與戰鬥。
+function templeFight(id){const L=TEMPLE_LAYOUTS[M.templeMap];if(!L)return;const e=L.encounters.find(x=>x.id===id);if(!e)return;const f=G.flags;if(e.flag&&f[e.flag])return;
+ const[cx,cy]=e.checkpoint,done=text=>{if(e.flag)f[e.flag]=1;say(S[text]||[['','……']])};
+ saveCP({map:M.id,x:cx,y:cy,dir:'up'});
+ say(S['templeFight_'+id]||[['','有東西擋住了去路。']],()=>startBattle(e.enemies.slice(),{bg:e.bg||'bg_temple',onWin:()=>done('templeWin_'+id),onEscape:()=>done('templeEsc_'+id)}))}
+function templePole(){const f=G.flags;if(f.templeShorePole)return say(S.templePoleDone);f.templeShorePole=1;if(M.templeAnim)M.templeAnim.pole=performance.now();M.inter=M.inter.filter(it=>!it.templePole);say(S.templePole)}
+function templeSluice(){const f=G.flags;if(f.templeSluice)return say(S.templeSluiceDone);f.templeSluice=1;if(M.templeAnim)M.templeAnim.sluice=performance.now();say(S.templeSluice)}
+function templeLampA(){const f=G.flags;if(!f.steleSeen)return say(S.lanternNoStele);if((f.templeLamps||0)&1)return;say(S.templeLampA,()=>lightTempleLantern(0))}
+function templeLampWrong(){if(!G.flags.steleSeen)return say(S.lanternNoStele);const L=TEMPLE_LAYOUTS.court,e=L.encounters.find(x=>x.id==='wrongLampFight'),[cx,cy]=e.checkpoint;saveCP({map:M.id,x:cx,y:cy,dir:'up'});
+ say(S.templeLampWrong,()=>startBattle(e.enemies.slice(),{bg:e.bg||'bg_temple',onWin:()=>say(S.templeLampWrongWin),onEscape:()=>say(S.templeLampWrongWin)}))}
+function templeShrine(){const f=G.flags;if(!f.steleSeen)return say(S.sealNoClue);if(f.templeSeal)return say(S.sealRepeat);if((f.templeLamps||0)!==templeLanternMask())return say(S.sealNoLamps);
+ if(f.templeHallShadow){f.templeSeal=1;return say(S.seal)}
+ saveCP({map:'temple_hall',x:672,y:830,dir:'up'});
+ say(S.templeShrineInk,()=>startBattle(['河伯水影'],{bg:'bg_temple',noEsc:1,onWin:()=>{f.templeHallShadow=1;f.templeSeal=1;say(S.templeShadowWin.concat(S.seal))}}))}
+function lightTempleLantern(i){const f=G.flags;if(!f.steleSeen)return say(S.lanternNoStele);const bit=1<<i;if((f.templeLamps||0)&bit)return;f.templeLamps=(f.templeLamps||0)|bit;const glow=M.lights.find(l=>l.lamp===i);if(glow)glow[3]='rgba(191,239,240,.5)';M.inter=M.inter.filter(it=>it.lampBit!==i);const lines=[['','燈芯泛起青白微光，水紋沿著石燈亮了一圈。']];if(f.templeLamps===templeLanternMask()){lines.push(['提示','三盞燈都亮了。北邊的鎮水門開了，中央水道的水也退了，從中庭北側進入水府後殿。']);if(M.templeAnim)M.templeAnim.lamps=performance.now()}say(lines)}
 function reedTrial(){const f=G.flags;if(!f.tal)return say(S.trialNoTalisman);if(G.party.length<2)return say(S.trialNoPartner);
  if(!f.reedSeen){f.reedSeen=1;say(S.trialLook);return}
  if(!f.reedPole){f.reedPole=1;say(S.trialPole);return}

diff --git a/src/exploration_ui.js b/src/exploration_ui.js
@@ -3,16 +3,21 @@
 function journeyGoal(){const f=G.flags||{};
  if(G.map==='village')return f.cure?'在渡口與雲纖會面':f.dawn?'把河珠交給阿婆':!f.chief||!f.quest?'和村長、阿婆談話':f.flood&&!f.ferryFight?'處理渡口的小水妖':'到渡口搭船';
  if(G.map==='reeds')return !f.tal?'調查妖氣來源':!f.reedSolved?'與白苓合力清除妖根':!f.camp?'到南側營火歇息':'前往出口牌坊';
- if(G.map==='temple_shore')return '穿過淺灘或棧橋，前往廟門';
+ if(G.map==='temple_shore')return f.templeShorePole||f.templeShoreFight?'前往東側的廟門':'穿過淺灘或棧橋，前往廟門';
  if(G.map==='temple_court')return !f.steleSeen?'讀取西側石碑':f.templeLamps!==templeLanternMask()?'點亮三座燈籠（'+templeLampCount()+'/3）':'穿過北邊的鎮水門';
  if(G.map==='temple_hall')return !f.templeSeal?'在神龕前削弱封印':'與河伯交談';
  return !f.steleSeen?'讀取廟中碑文':!f.templeSeal?(f.templeLamps!==templeLanternMask()?'點亮三座燈籠（'+templeLampCount()+'/3）':'在神龕前削弱封印'):'與河伯交談'}
+function templeCourtHint(f){const m=f.templeLamps||0,left=[];
+ if(!(m&1))left.push('西側上層的石燈被銀雲符封住，白苓的狐火能燒開');
+ if(!(m&2))left.push(f.templeSluice?'東側下層水已退，走過去點亮石燈':'東側下層的石燈淹在水下，先到上層東邊扳動水閘');
+ if(!(m&4))left.push('北邊鎮水門旁有兩盞燈，碑文說「日出之側」才是正燈');
+ return left.join('；')+'。'}
 function templeLampCount(){const m=G.flags.templeLamps||0;return (m&1)+((m>>1)&1)+((m>>2)&1)}
 function journeyHint(){const f=G.flags||{};
  if(G.map==='village')return f.cure?'沿村莊主路回到南側渡口。':f.dawn?'阿婆在村莊東側住宅旁等候。':!f.chief||!f.quest?'到北側村長廳前與村長交談，再到東側住宅旁尋找阿婆。':f.flood&&!f.ferryFight?'退水的河邊有小水妖作亂，先擊退或逃離，再登船。':'沿廣場向南，走到木棧橋登船。';
  if(G.map==='reeds')return !f.tal?'沿蘆葦間的道路探索，留意路中的異樣符紙。':!f.reedSolved?'在倒伏妖根前調查，與白苓合作打通橋上的道路。':!f.camp?'過橋後前往南側營火，稍作休息。':'從營火向東探索，再沿道路向南尋找牌坊。';
- if(G.map==='temple_shore')return '南邊淺灘最直接；北邊棧橋繞遠一點。兩條路都通到東側的廟門。';
- if(G.map==='temple_court')return !f.steleSeen?'沿下層往西，到盡頭的石碑讀取碑文。':f.templeLamps!==templeLanternMask()?'三盞燈散在中庭各處：西側上層、東側下層，以及北邊鎮水門旁。靠近石燈按互動。':'三燈全亮，鎮水門已開，從北邊進入水府後殿。';
+ if(G.map==='temple_shore')return '南邊淺灘最直接，但會遇到水影；北邊棧橋有斷口，用竹篙撐開後才能過，沒有戰鬥。兩條路都通到東側的廟門。';
+ if(G.map==='temple_court')return !f.steleSeen?'沿下層往西，到盡頭的石碑讀取碑文。':f.templeLamps!==templeLanternMask()?templeCourtHint(f):'三燈全亮，鎮水門已開，從北邊進入水府後殿。';
  if(G.map==='temple_hall')return !f.templeSeal?'沿走廊到神龕前調查封印，神龕在環形走廊的內側。':'封印已鬆動，沿北邊走廊與河伯交談。';
  return !f.steleSeen?'到庭院西側尋找石碑。':!f.templeSeal?(f.templeLamps!==templeLanternMask()?'沿庭院三處石燈逐一靠近並互動，點亮所有燈籠。':'回到庭院中央，在神龕前調查封印。'):'沿中央石階向北，與河伯交談。'}
 function nearbyInteraction(){if(!M||G.mode!=='map'||G.dlg)return null;const v=DV[G.dir],fx=G.x+v[0]*24,fy=G.y-12+v[1]*22;let best=null,bd=Infinity;

diff --git a/src/data.js b/src/data.js
@@ -2,9 +2,9 @@
 // 資料：角色、敵人、道具、技能數值
 // ---------- data (ported from v5) ----------
 const CHESTS={'reeds:18,1':['魚乾',2],'reeds:1,7':['護身符',1],'reeds:5,11':['刻字布條',1],'temple:shore':['魚乾',2],'temple:court':['清心草',2],'temple:hall':['清心草',2]};
-const CFG={hebo:{phaseHp:.5,waveInterval:3,phaseWaveInterval:2},reedBoss:{enemy:{hp:78,atk:11,def:2,exp:27},checkpoint:[100,122],trigger:[878,517,88,72]},templeLanterns:[{lamp:[9.2,7.9],stand:[9.2,7.1]},{lamp:[12.1,7.9],stand:[12.1,7.1]},{lamp:[12.1,5.9],stand:[11.8,5.2]}],charmDefense:2,ferryFight:{count:2,reward:1,checkpoint:[20,14]},battleUi:{landscapeScale:1.12,messageMaxWidth:640,soundSafeWidth:94,messagePadding:28,messageMinWidth:132},skills:{渡水一擊:{power:1.8}}};
+const CFG={hebo:{phaseHp:.5,waveInterval:3,phaseWaveInterval:2},reedBoss:{enemy:{hp:78,atk:11,def:2,exp:27},checkpoint:[100,122],trigger:[878,517,88,72]},templeLanterns:[{lamp:[9.2,7.9],stand:[9.2,7.1]},{lamp:[12.1,7.9],stand:[12.1,7.1]},{lamp:[12.1,5.9],stand:[11.8,5.2]}],charmDefense:2,templeShadow:{hp:100,atk:12,def:3,exp:20},ferryFight:{count:2,reward:1,checkpoint:[20,14]},battleUi:{landscapeScale:1.12,messageMaxWidth:640,soundSafeWidth:94,messagePadding:28,messageMinWidth:132},skills:{渡水一擊:{power:1.8}}};
 const templeLanternMask=()=>((1<<CFG.templeLanterns.length)-1);
-const EN={小水妖:{e:'shui',hp:18,atk:8,def:1,exp:6},蘆葦精:{e:'lu',hp:26,atk:9,def:2,exp:9,poison:.3},老蘆葦精:{e:'laolu',...CFG.reedBoss.enemy,boss:1},河伯:{e:'hebo',hp:180,atk:14,def:4,exp:60,boss:1}};
+const EN={小水妖:{e:'shui',hp:18,atk:8,def:1,exp:6},蘆葦精:{e:'lu',hp:26,atk:9,def:2,exp:9,poison:.3},老蘆葦精:{e:'laolu',...CFG.reedBoss.enemy,boss:1},河伯水影:{e:'hebos',...CFG.templeShadow,boss:1},河伯:{e:'hebo',hp:180,atk:14,def:4,exp:60,boss:1}};
 const SK={橫掃:{mp:4,tgt:'allE',d:'打全體敵人'},渡水一擊:{mp:5,tgt:'oneE',d:'水靈單體重擊'},狐火:{mp:4,tgt:'oneE',d:'法術打單體'},春霖:{mp:6,tgt:'allA',d:'全隊回復'}};
 const ITEMS={魚乾:{tgt:'oneA',d:'回復40HP'},清心草:{tgt:'oneA',d:'解除中毒並回復15HP'},護身符:{d:'永久提升陳青舟防禦 2 點'},刻字布條:{d:'陳溯留下的舊物，青舟認得上面的字跡'}};
 const PORT={林嬸:'lin',老周:'zhou',陳青舟:'qz',白苓:'bl',雲纖:'yx',村長:'chief',阿婆:'granny',王大叔:'wang',河伯:'hebo'};

diff --git a/src/render.js b/src/render.js
@@ -8,6 +8,7 @@ function drawWorld(now){const t=now/1000;
  X.fillStyle=M.id=='village'?'#3a5f63':M.id=='reeds'?'#12180e':'#120e14';X.fillRect(cx-2,cy-2,VW+4,VH+4);
  if(activeScene()&&M.id==='village'){X.fillStyle=X.createPattern(I.t_water,'repeat');X.fillRect(cx,Math.max(cy,M.H),VW,VH)}
  X.drawImage(M.ground,0,0);
+ if(M.templeMap)drawTempleOverlays(now);
  if(DEBUG_COL&&M.templeMap){const st=templeDebugState();if(M.walkRedState!==st){M.walkRed=templeRedLayer();M.walkRedState=st}}
  if(DEBUG_COL&&M.maze){const state=[G.flags.reedSolved,G.flags.reedBoss||G.flags.camp||G.flags.templeSeal].join(':');if(M.walkRedState!==state){M.walkRed=reedsWalkRedLayer();M.walkRedState=state}}
  if(DEBUG_COL&&(M.walkImg||M.maze||M.templeMap)){X.save();X.globalAlpha=.4;X.drawImage(M.walkRed||(M.walkRed=walkRedLayer(M.walkImg,M.W,M.H)),0,0);X.restore()}
@@ -48,7 +49,7 @@ function drawWorld(now){const t=now/1000;
   const L=SA.l+30,R=SW-SA.r-30,Tp=SA.t+fs*2+40,Bt=SH-SA.b-(JOY.touch?190:30);
   if(sx>L&&sx<R&&sy>Tp&&sy<Bt){txt('▼ 渡船',sx,sy-6+bob,fs+2,'#ffe9a8','center')}
   else{const ax=Math.max(L+20,Math.min(R-20,sx)),ay=Math.max(Tp,Math.min(Bt,sy)),an=Math.atan2(sy-ay,sx-ax);X.save();X.translate(ax,ay);X.fillStyle='rgba(0,0,0,.55)';X.beginPath();X.arc(0,0,fs*1.7,0,7);X.fill();X.rotate(an);X.fillStyle='#ffe9a8';X.beginPath();X.moveTo(fs*1.5+bob/2,0);X.lineTo(fs*.6,-fs*.7);X.lineTo(fs*.6,fs*.7);X.fill();X.restore();txt('渡船',ax,ay+fs*.4,fs-2,'#fff','center')}}}
- txt('v52',SW-SA.r-6,SH-SA.b-4,Math.max(10,fs-6),'rgba(255,255,255,.6)','right');
+ txt('v53',SW-SA.r-6,SH-SA.b-4,Math.max(10,fs-6),'rgba(255,255,255,.6)','right');
  const at=now-G.lt;if((M.id=='temple'||M.templeMap)&&at<2600){X.globalAlpha=Math.min(1,Math.max(0,1-(at-1600)/1000));X.fillStyle='#000';X.fillRect(0,0,SW,SH);cover(I.ext);const fs2=fs+6;box(SW/2-80,SH*.7,160,fs2+22);txt(M.name||'河神廟',SW/2,SH*.7+fs2+6,fs2,'#f3dfa0','center');X.globalAlpha=1}}
 function dlgTop(){return JOY.touch&&SW>SH}
 function drawBoat(now){drawNightScene(now)}

diff --git a/src/screens.js b/src/screens.js
@@ -6,7 +6,7 @@ function drawTitle(now){UI();X.fillStyle='#000';X.fillRect(0,0,SW,SH);const c=co
  X.save();X.shadowColor='#000';X.shadowBlur=12;txt('雲渡仙緣',SW/2,ty,big,'#f3dfa0','center');txt('第一章〈夜渡〉',SW/2,ty+big*.75,big*.38,'#cfe','center');X.restore();
  if(G.cred){X.fillStyle='rgba(0,0,20,.82)';X.fillRect(0,0,SW,SH);const L=CREDITS;L.forEach((l,i)=>txt(l,SW/2,SA.t+60+i*(fs+12),i?fs-1:fs+4,i?'#e8e8f0':'#f3dfa0','center'));return}
  if(!SV.p&&Math.floor(t*1.6)%2)txt(JOY.touch?'按 A 開始':'按 Enter／空白鍵 開始',SW/2,SH-SA.b-(JOY.touch?230:70),fs+3,'#fff','center');
- txt('版本 v52',SW-SA.r-94,SA.t+fs+4,fs-3,'#cde','right');if(!SV.p)txt(JOY.touch?'B：素材來源 CREDITS':'C／Esc：素材來源 CREDITS',SW/2,SH-SA.b-(JOY.touch?200:40),fs-3,'#cde','center');
+ txt('版本 v53',SW-SA.r-94,SA.t+fs+4,fs-3,'#cde','right');if(!SV.p)txt(JOY.touch?'B：素材來源 CREDITS':'C／Esc：素材來源 CREDITS',SW/2,SH-SA.b-(JOY.touch?200:40),fs-3,'#cde','center');
  if(!ready)txt('載入中…',SW/2,SH/2,fs,'#fff','center')}
 const CREDITS=['【CREDITS 素材來源】','','角色、場景、道具、敵人、立繪、背景：','本作原創 AI 生成手繪風素材','（色鍵去背後合成）','戰鬥背景：OpenAI image_gen','程式、劇情：《雲渡仙緣》原創','音樂與音效：使用者提供（v33）','','按 B／C／Esc 返回'];
 function drawOver(){UI();X.fillStyle='#200';X.fillRect(0,0,SW,SH);const fs=FS();txt('勝敗乃兵家常事',SW/2,SH*.42,fs*2,'#f88','center');txt('按 A／確定 重新挑戰',SW/2,SH*.42+fs*3,fs,'#fff','center')}

diff --git a/src/battle.js b/src/battle.js
@@ -15,7 +15,7 @@ function learnSkill(p,n){if(p&&!p.skills.includes(n))p.skills.push(n)}
 function nextActor(){const B=G.B;let i=B.ai+1;while(i<G.party.length&&G.party[i].hp<=0)i++;if(i<G.party.length){B.ai=i;B.ph='cmd';B.sel=0}else enemyPhase()}
 function enemyPhase(){const B=G.B,m=[];
  for(const e of alive(B.en)){const ps=alive(G.party);if(!ps.length)break;const i0=m.length;let K,TG;
-  if(e.boss&&B.turn%(B.heboPhase2?CFG.hebo.phaseWaveInterval:CFG.hebo.waveInterval)==0){K='wave';TG=ps;m.push('河伯掀起「濁浪滔天」！');ps.forEach(p=>{m.push(p.n+'受到'+dmg(e.atk*.85,p)+'點傷害！');ko(p,m)})}
+  if(e.boss&&B.turn%(B.heboPhase2?CFG.hebo.phaseWaveInterval:CFG.hebo.waveInterval)==0){K='wave';TG=ps;m.push(e.n+'掀起「濁浪滔天」！');ps.forEach(p=>{m.push(p.n+'受到'+dmg(e.atk*.85,p)+'點傷害！');ko(p,m)})}
   else{const p=ps[rnd(ps.length)];K=e.boss?'tail':e.e=='lu'?'leaf':'splash';TG=[p];m.push(e.n+(e.boss?'甩動龍尾':'撲了過來')+'，'+p.n+'受到'+dmg(e.atk,p)+'點傷害！');ko(p,m);
    if(p.hp>0&&!p.st&&(e.poison&&Math.random()<e.poison||e.boss&&Math.random()<.3)){p.st='中毒';m.push(p.n+'中毒了！')}}wr(m,i0,K,e,TG)}
  alive(G.party).forEach(p=>{if(p.st=='中毒'){const d=Math.max(3,Math.round(p.mhp*.06));p.hp=Math.max(1,p.hp-d);hit(p,d);m.push(p.n+'因中毒損失'+d+'HP。');wr(m,m.length-1,'poison',p,[p])}});

diff --git a/src/main.js b/src/main.js
@@ -1,7 +1,7 @@
 'use strict';
 // 主迴圈 frame() 與測試掛勾 window.__*
 let hashJumped=false;
-function frame(){requestAnimationFrame(frame);if(ready&&!hashJumped){hashJumped=true;try{templeHashJump()}catch(e){console.error(e)}}if(JOY.hide){const hb=G.mode=='battle';if(JOY.hidden!==hb)JOY.hide(hb)}const now=performance.now(),dt=Math.min(3,(now-lastT)/16.667);lastT=now;
+function frame(){requestAnimationFrame(frame);if(ready&&!hashJumped){hashJumped=true;try{templeEnsureShadowSprites();templeHashJump()}catch(e){console.error(e)}}if(JOY.hide){const hb=G.mode=='battle';if(JOY.hidden!==hb)JOY.hide(hb)}const now=performance.now(),dt=Math.min(3,(now-lastT)/16.667);lastT=now;
  try{if(cv.width!=Math.round(innerWidth*K)||cv.height!=Math.round(innerHeight*K))fit();
   if(ready&&G.mode=='map')update(dt);X.setTransform(1,0,0,1,0,0);X.imageSmoothingEnabled=true;X.imageSmoothingQuality='high';
   if(G.mode=='title'||!ready)drawTitle(now);else if(G.mode=='map')drawWorld(now);else if(G.mode=='boat')drawBoat(now);else if(G.mode=='battle')drawBattle(now);else if(G.mode=='over')drawOver();else if(G.mode=='end')drawEnd(now);

diff --git a/src/assets.js b/src/assets.js
@@ -1,7 +1,7 @@
 'use strict';
 // 圖片清單：key -> assets/img 路徑（勿改回 base64 內嵌）
 // 圖片網址會加上 ?v=ASSET_V（與 index.html 的 ?v=N 同步）。改 sprite 規格／換圖時一定要一起 +1，避免舊 JS 畫新圖或新 JS 畫舊快取圖
-const ASSET_V=52;
+const ASSET_V=53;
 const ASSETS={
  "shui_idle0": "assets/img/shui_idle0.webp",
  "shui_idle1": "assets/img/shui_idle1.webp",
